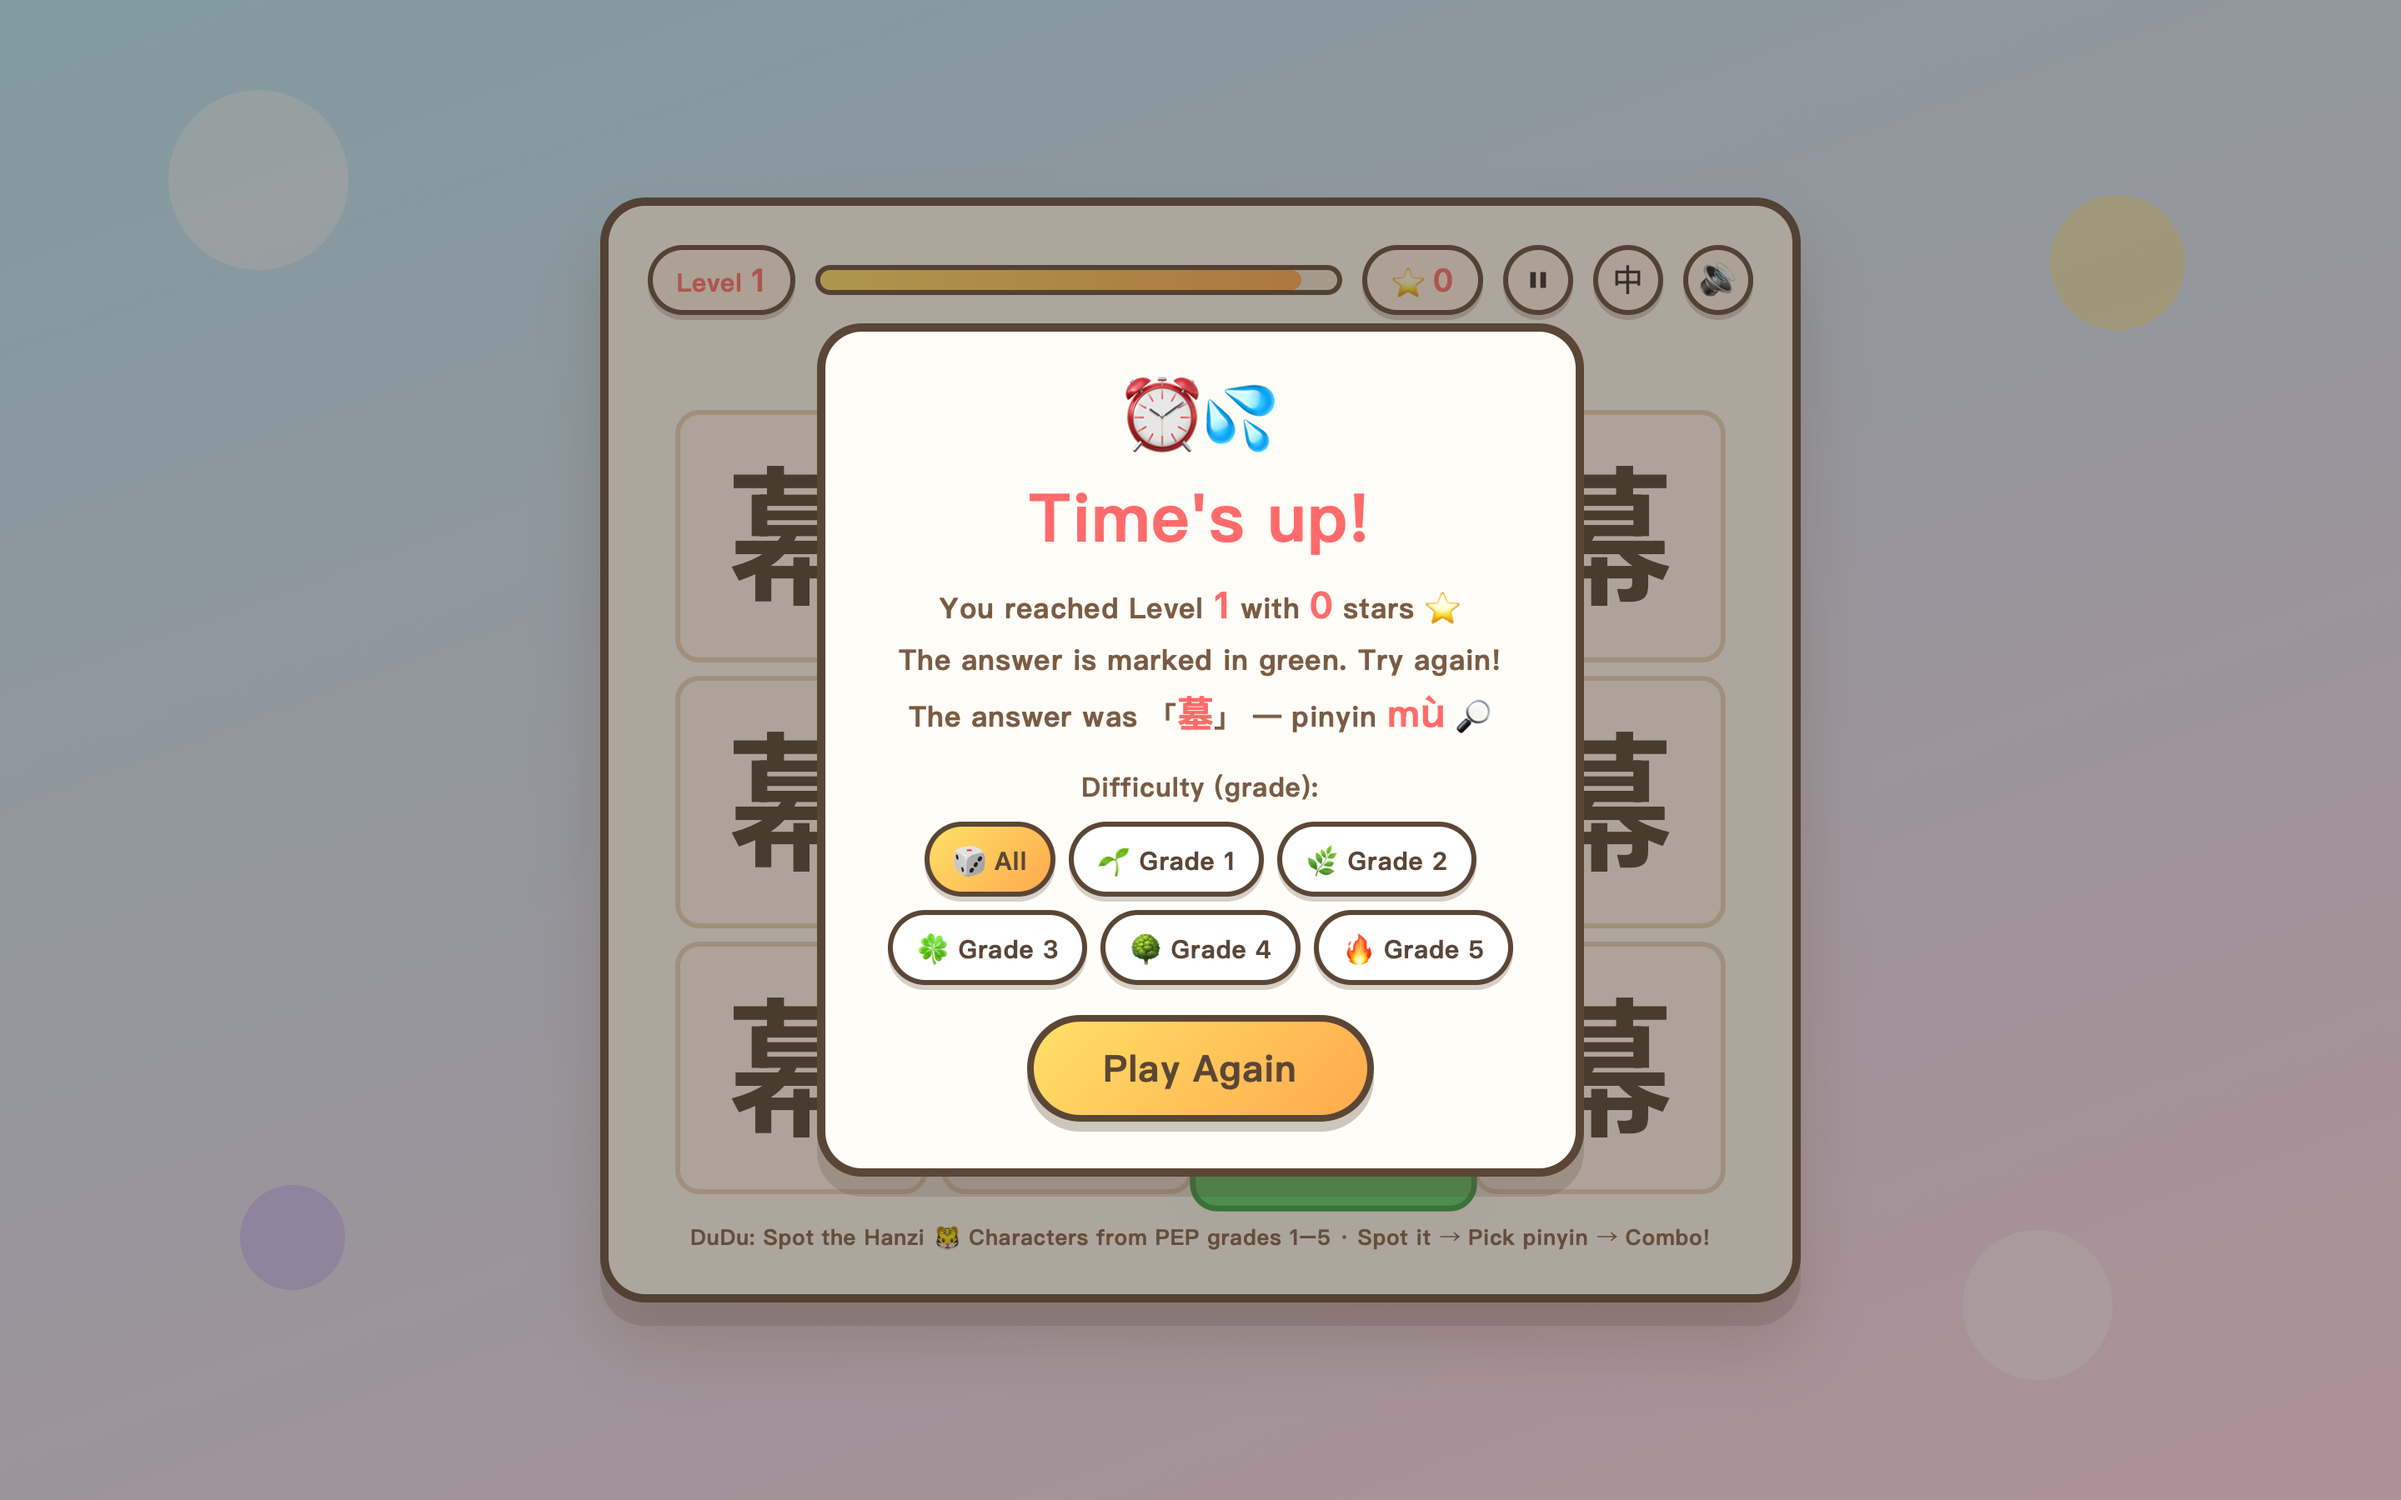
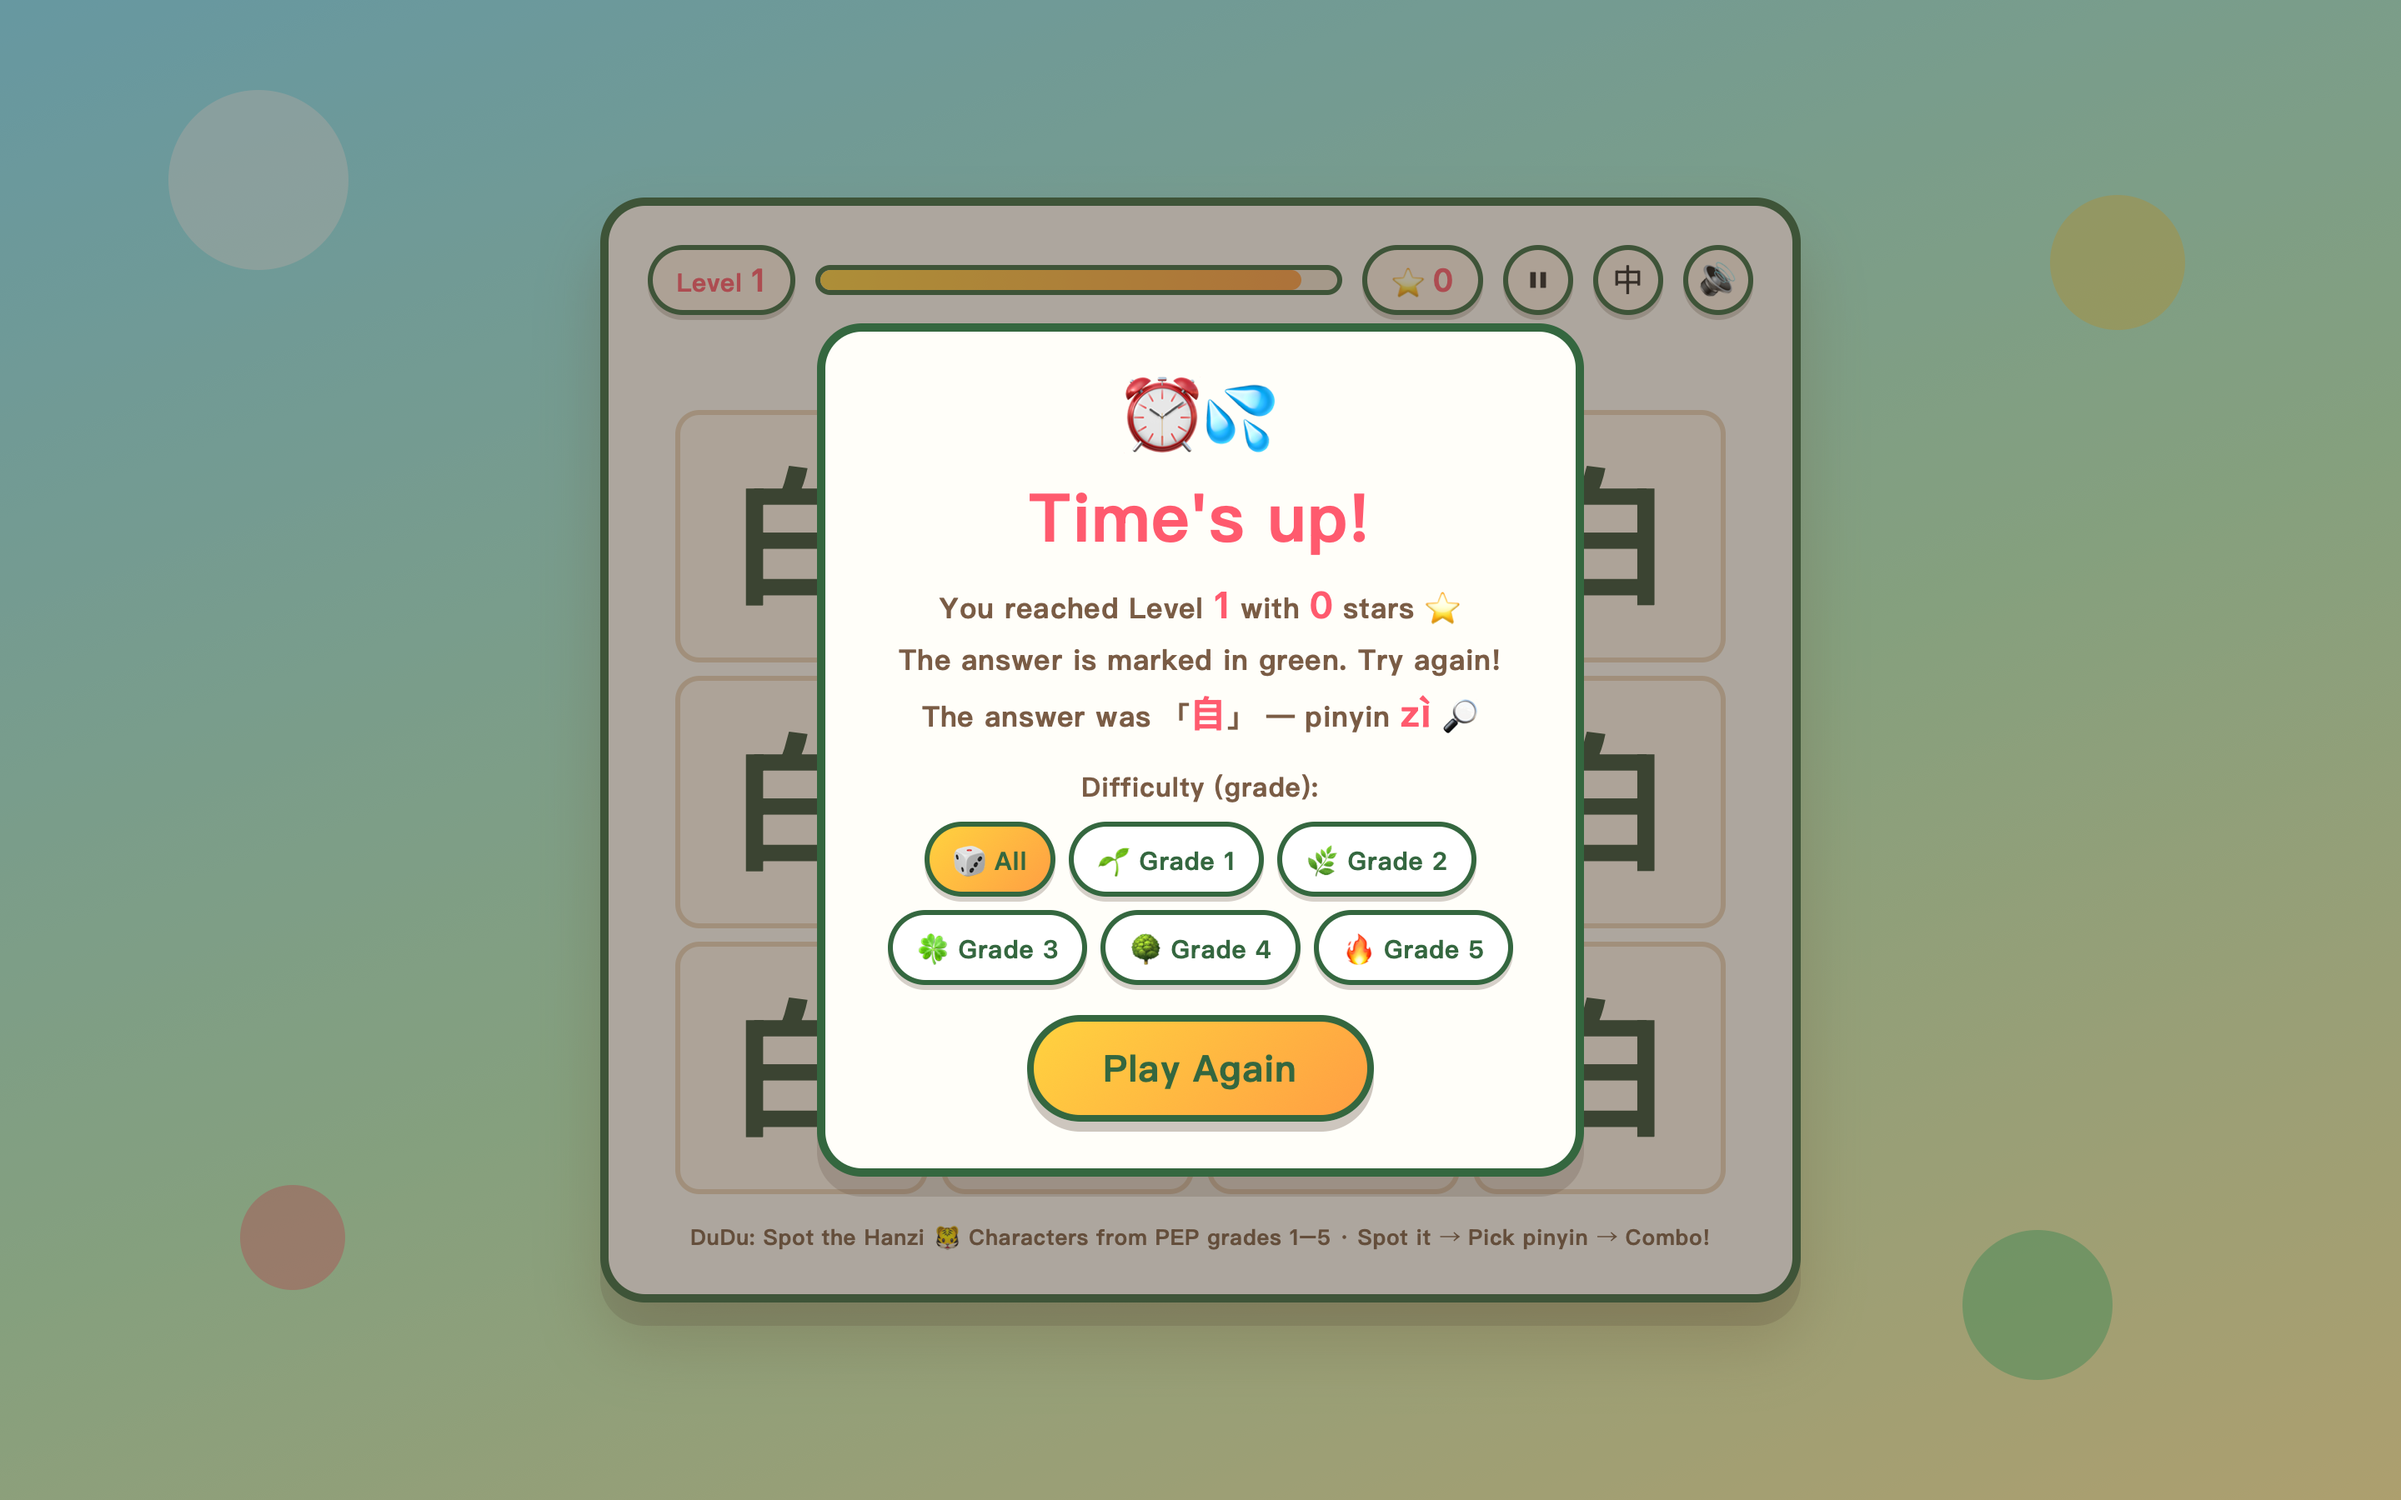
Refresh palette to a brighter natural sky-grass-sunlight theme
- Background gradient: sky blue → fresh grass green → sunshine yellow
- More saturated, cheerful fruit/flower accent colors; forest-green text & outlines
- Lively decorative dots (cloud / sun / grass / berry)
- Regenerated bilingual screenshots

diff --git a/index.html b/index.html
@@ -6,23 +6,24 @@
 <title>嘟嘟找别字</title>
 <style>
   :root {
-    --sky1: #aee9ff;
-    --sky2: #ffd6ec;
-    --card: #fffdf7;
-    --ink: #4a3b2f;
-    --candy-red: #ff6b6b;
-    --candy-orange: #ffa94d;
-    --candy-yellow: #ffe066;
-    --candy-green: #51cf66;
-    --candy-blue: #4dabf7;
-    --candy-purple: #b197fc;
-    --outline: #5b4636;
+    --sky1: #7fe3ff;   /* 晴空蓝 */
+    --sky2: #b6f2bf;   /* 嫩草绿 */
+    --sky3: #fff0a3;   /* 阳光黄 */
+    --card: #fffef9;   /* 奶白 */
+    --ink: #2f4a34;    /* 森林绿（文字）*/
+    --candy-red: #ff5a6e;    /* 草莓红 */
+    --candy-orange: #ff9f43; /* 蜜橘橙 */
+    --candy-yellow: #ffd23f; /* 向日葵黄 */
+    --candy-green: #2ec46f;  /* 鲜草绿 */
+    --candy-blue: #38b6ff;   /* 天空蓝 */
+    --candy-purple: #a66cff; /* 薰衣草紫 */
+    --outline: #34673f;      /* 深森林绿描边 */
   }
   * { box-sizing: border-box; margin: 0; padding: 0; }
   html, body { width: 100%; height: 100%; }
   body {
     font-family: "PingFang SC", "Hiragino Sans GB", "Heiti SC", "Microsoft YaHei", sans-serif;
-    background: linear-gradient(160deg, var(--sky1) 0%, var(--sky2) 100%);
+    background: linear-gradient(160deg, var(--sky1) 0%, var(--sky2) 55%, var(--sky3) 100%);
     color: var(--ink);
     display: flex;
     align-items: center;
@@ -39,8 +40,8 @@
   .deco { position: fixed; border-radius: 50%; opacity: 0.45; z-index: 0; pointer-events: none; }
   .deco.c1 { width: 12vmin; height: 12vmin; background: #fff; top: 6%; left: 7%; }
   .deco.c2 { width: 9vmin; height: 9vmin; background: var(--candy-yellow); top: 13%; right: 9%; }
-  .deco.c3 { width: 10vmin; height: 10vmin; background: #fff; bottom: 8%; right: 12%; }
-  .deco.c4 { width: 7vmin; height: 7vmin; background: var(--candy-purple); bottom: 14%; left: 10%; }
+  .deco.c3 { width: 10vmin; height: 10vmin; background: var(--candy-green); bottom: 8%; right: 12%; }
+  .deco.c4 { width: 7vmin; height: 7vmin; background: var(--candy-red); bottom: 14%; left: 10%; }
 
   .stage {
     position: relative;
@@ -252,7 +253,7 @@
   /* 启动画面 */
   #splash {
     position: fixed; inset: 0; z-index: 100;
-    background: linear-gradient(160deg, var(--sky1), var(--sky2));
+    background: linear-gradient(160deg, var(--sky1), var(--sky2) 55%, var(--sky3));
     display: flex; align-items: center; justify-content: center;
     transition: opacity 0.6s ease;
   }

diff --git a/xcodeproj/DuDuHanzi/game.html b/xcodeproj/DuDuHanzi/game.html
@@ -6,23 +6,24 @@
 <title>嘟嘟找别字</title>
 <style>
   :root {
-    --sky1: #aee9ff;
-    --sky2: #ffd6ec;
-    --card: #fffdf7;
-    --ink: #4a3b2f;
-    --candy-red: #ff6b6b;
-    --candy-orange: #ffa94d;
-    --candy-yellow: #ffe066;
-    --candy-green: #51cf66;
-    --candy-blue: #4dabf7;
-    --candy-purple: #b197fc;
-    --outline: #5b4636;
+    --sky1: #7fe3ff;   /* 晴空蓝 */
+    --sky2: #b6f2bf;   /* 嫩草绿 */
+    --sky3: #fff0a3;   /* 阳光黄 */
+    --card: #fffef9;   /* 奶白 */
+    --ink: #2f4a34;    /* 森林绿（文字）*/
+    --candy-red: #ff5a6e;    /* 草莓红 */
+    --candy-orange: #ff9f43; /* 蜜橘橙 */
+    --candy-yellow: #ffd23f; /* 向日葵黄 */
+    --candy-green: #2ec46f;  /* 鲜草绿 */
+    --candy-blue: #38b6ff;   /* 天空蓝 */
+    --candy-purple: #a66cff; /* 薰衣草紫 */
+    --outline: #34673f;      /* 深森林绿描边 */
   }
   * { box-sizing: border-box; margin: 0; padding: 0; }
   html, body { width: 100%; height: 100%; }
   body {
     font-family: "PingFang SC", "Hiragino Sans GB", "Heiti SC", "Microsoft YaHei", sans-serif;
-    background: linear-gradient(160deg, var(--sky1) 0%, var(--sky2) 100%);
+    background: linear-gradient(160deg, var(--sky1) 0%, var(--sky2) 55%, var(--sky3) 100%);
     color: var(--ink);
     display: flex;
     align-items: center;
@@ -39,8 +40,8 @@
   .deco { position: fixed; border-radius: 50%; opacity: 0.45; z-index: 0; pointer-events: none; }
   .deco.c1 { width: 12vmin; height: 12vmin; background: #fff; top: 6%; left: 7%; }
   .deco.c2 { width: 9vmin; height: 9vmin; background: var(--candy-yellow); top: 13%; right: 9%; }
-  .deco.c3 { width: 10vmin; height: 10vmin; background: #fff; bottom: 8%; right: 12%; }
-  .deco.c4 { width: 7vmin; height: 7vmin; background: var(--candy-purple); bottom: 14%; left: 10%; }
+  .deco.c3 { width: 10vmin; height: 10vmin; background: var(--candy-green); bottom: 8%; right: 12%; }
+  .deco.c4 { width: 7vmin; height: 7vmin; background: var(--candy-red); bottom: 14%; left: 10%; }
 
   .stage {
     position: relative;
@@ -252,7 +253,7 @@
   /* 启动画面 */
   #splash {
     position: fixed; inset: 0; z-index: 100;
-    background: linear-gradient(160deg, var(--sky1), var(--sky2));
+    background: linear-gradient(160deg, var(--sky1), var(--sky2) 55%, var(--sky3));
     display: flex; align-items: center; justify-content: center;
     transition: opacity 0.6s ease;
   }

diff --git a/build/generate_screenshots.swift b/build/generate_screenshots.swift
@@ -27,9 +27,9 @@ final class Shooter: NSObject, WKNavigationDelegate {
         web.loadFileURL(url, allowingReadAccessTo: url.deletingLastPathComponent())
     }
     func webView(_ w: WKWebView, didFinish nav: WKNavigation!) {
-        // 移除启动画面（截图取真正的菜单）；需要英文界面时先切换语言
-        let prep = "var sp=document.getElementById('splash'); if(sp) sp.remove(); "
-                 + (uiLang == "en" ? "lang='en'; applyLang();" : "true;")
+        // 移除启动画面、清掉存档（截图取干净的首启菜单）；需要英文界面时先切换语言
+        let common = "var sp=document.getElementById('splash'); if(sp) sp.remove(); try{localStorage.removeItem('dudu_save_v1')}catch(e){} "
+        let prep = common + (uiLang == "en" ? "lang='en';" : "") + " applyLang();"
         web.evaluateJavaScript(prep) { _, _ in
             DispatchQueue.main.asyncAfter(deadline: .now() + 1.0) { self.runStep() }
         }
